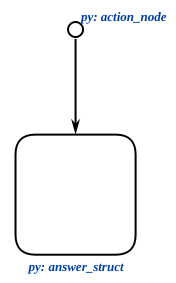
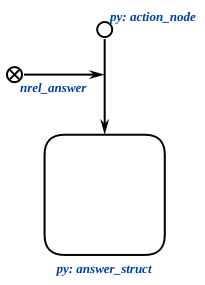
docs(utils): add base_agent and execute images

Changed region(s): [[0.0284, 0.0283, 0.9659, 0.9046], [0.142, 0.9329, 0.7386, 0.9894]]

diff --git a/src/sc_kpm/utils/action_utils.py b/src/sc_kpm/utils/action_utils.py
@@ -75,20 +75,21 @@ def call_agent(
 
 
 def _create_action_with_arguments(arguments: Dict[ScAddr, IsDynamic], concepts: List[Idtf]) -> ScAddr:
-    action = _create_action(concepts)
+    action_node = _create_action(concepts)
     keynodes = ScKeynodes()
     rrel_dynamic_arg = keynodes[CommonIdentifiers.RREL_DYNAMIC_ARGUMENT.value]
 
+    argument: ScAddr
     for index, (argument, is_dynamic) in enumerate(arguments.items(), 1):
         if argument.is_valid():
             rrel_idtf = keynodes[f"{RREL_PREFIX}{index}"]
             if is_dynamic:
-                variable = create_node(sc_types.NODE_CONST)
-                create_role_relation(action, variable, rrel_dynamic_arg, rrel_idtf)
+                variable = create_node(sc_types.NODE_CONST)  # TODO: var or const?
+                create_role_relation(action_node, variable, rrel_dynamic_arg, rrel_idtf)
                 create_edge(sc_types.EDGE_ACCESS_CONST_POS_TEMP, variable, argument)
             else:
-                create_role_relation(action, argument, rrel_idtf)
-    return action
+                create_role_relation(action_node, argument, rrel_idtf)
+    return action_node
 
 
 def _create_action(concepts: List[Idtf]) -> ScAddr:
@@ -101,8 +102,8 @@ def _create_action(concepts: List[Idtf]) -> ScAddr:
             keynodes.resolve(concept, sc_types.NODE_CONST_CLASS),
             ScAlias.ACTION_NODE.value,
         )
-    addr_list = client.create_elements(construction)
-    return addr_list[0]
+    action_node = client.create_elements(construction)[0]
+    return action_node
 
 
 # TODO rewrite to event

diff --git a/README.md b/README.md
@@ -421,7 +421,7 @@ assert power == len(elements)
 
 Utils to work with actions, events and agents
 
-!!!IMAGE HERE!!!
+![agent_base](docs/schemes/png/agent_base.png)
 
 ### Check action class
 
@@ -494,7 +494,8 @@ def execute_agent(
 ```
 
 Call agent, wait for it some seconds, and return if there is reaction
-!!!IMAGE HERE!!!
+
+![execute_agent](docs/schemes/png/execute_agent.png)
 
 ```python
 ...
